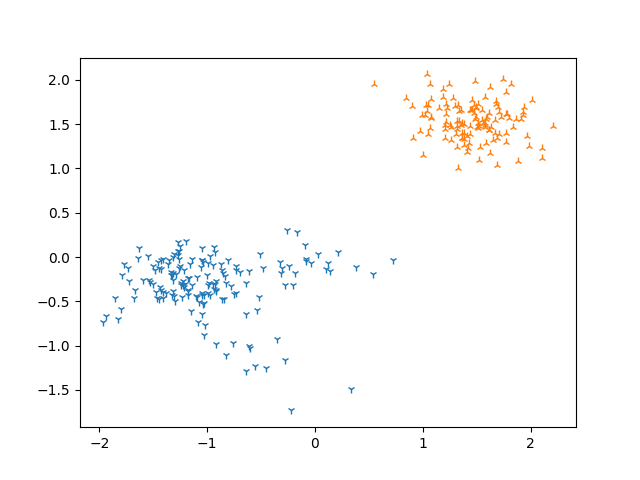
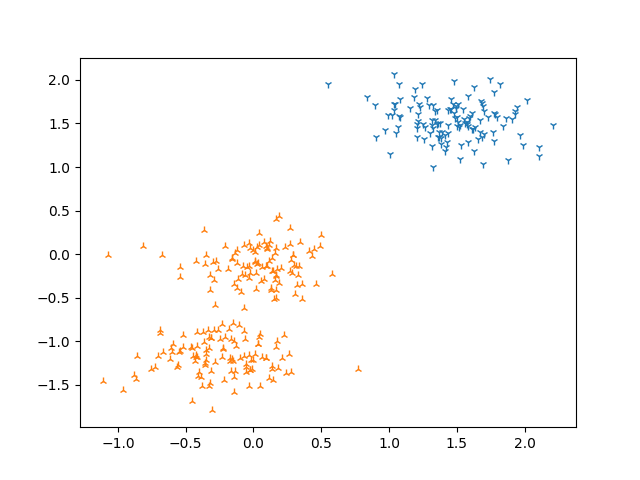
better plt and shows weaknesses of k-means

diff --git a/k-means.py b/k-means.py
@@ -56,7 +56,28 @@ def create_centroids(X, k):
     return np.array(centroids)
 
 
-def main():
+def running_k_means():
+    data_points = np.asarray(pandas.read_csv('./data/Dataset1.csv').values.tolist())
+    for j in range(2, 5):
+        fig, ax = plt.subplots()
+        number_of_clusters = j
+        centroids = create_centroids(data_points, number_of_clusters)
+        total_iteration = 10
+        [cluster_label, new_centroids] = iterate_k_means(data_points, centroids, total_iteration)
+        cluster_list = []
+        for i in range(number_of_clusters):
+            cluster_list.append([list(x[1]) for x in cluster_label if x[0] == i])
+        # Result of clustering!
+        for i in range(number_of_clusters):
+            xs = [x[0] for x in cluster_list[i]]
+            ys = [x[1] for x in cluster_list[i]]
+            color = str(i+1)
+            ax.plot(xs, ys, color)
+        name = './figures/q1_k_is_' + str(number_of_clusters) + '.png'
+        fig.savefig(name)
+
+
+def evaluation():
     data_points = np.asarray(pandas.read_csv('./data/Dataset1.csv').values.tolist())
     mean_errors = []
     for j in range(1, 30):
@@ -73,16 +94,6 @@ def main():
             sub_res = np.subtract(cluster_arrays[i][:], new_centroids[i])
             error_from_center.append(np.mean(np.sqrt(np.sum((sub_res) ** 2, axis=1))))
         mean_errors.append(np.mean(np.asarray(error_from_center)))
-        # Result of clustering!
-        '''
-        for i in range(number_of_clusters):
-            xs = [x[0] for x in cluster_list[i]]
-            ys = [x[1] for x in cluster_list[i]]
-            color = str(i+1)
-            plt.plot(xs, ys, color)
-        name = './figures/q1_k_is_' + str(number_of_clusters) + '.png'
-        plt.savefig(name)
-        '''
     plt.plot(list(range(1, len(mean_errors) + 1)), mean_errors, color='g')
     plt.xlabel('K')
     plt.ylabel('Mean error')
@@ -90,5 +101,24 @@ def main():
     plt.savefig('./figures/ks.png')
 
 
+def weaknesses_and_restrictions_of_k_means():
+    data_points = np.asarray(pandas.read_csv('./data/Dataset2.csv').values.tolist())
+    number_of_clusters = 3
+    centroids = create_centroids(data_points, number_of_clusters)
+    total_iteration = 10
+    [cluster_label, new_centroids] = iterate_k_means(data_points, centroids, total_iteration)
+    cluster_list = []
+    for i in range(number_of_clusters):
+        cluster_list.append([list(x[1]) for x in cluster_label if x[0] == i])
+    # Result of clustering!
+    for i in range(number_of_clusters):
+        xs = [x[0] for x in cluster_list[i]]
+        ys = [x[1] for x in cluster_list[i]]
+        color = str(i+1)
+        plt.plot(xs, ys, color)
+    name = './figures/shows_weakness.png'
+    plt.savefig(name)
 if __name__ == "__main__":
-    main()
+    running_k_means()
+    # evaluation()
+    # weaknesses_and_restrictions_of_k_means()
